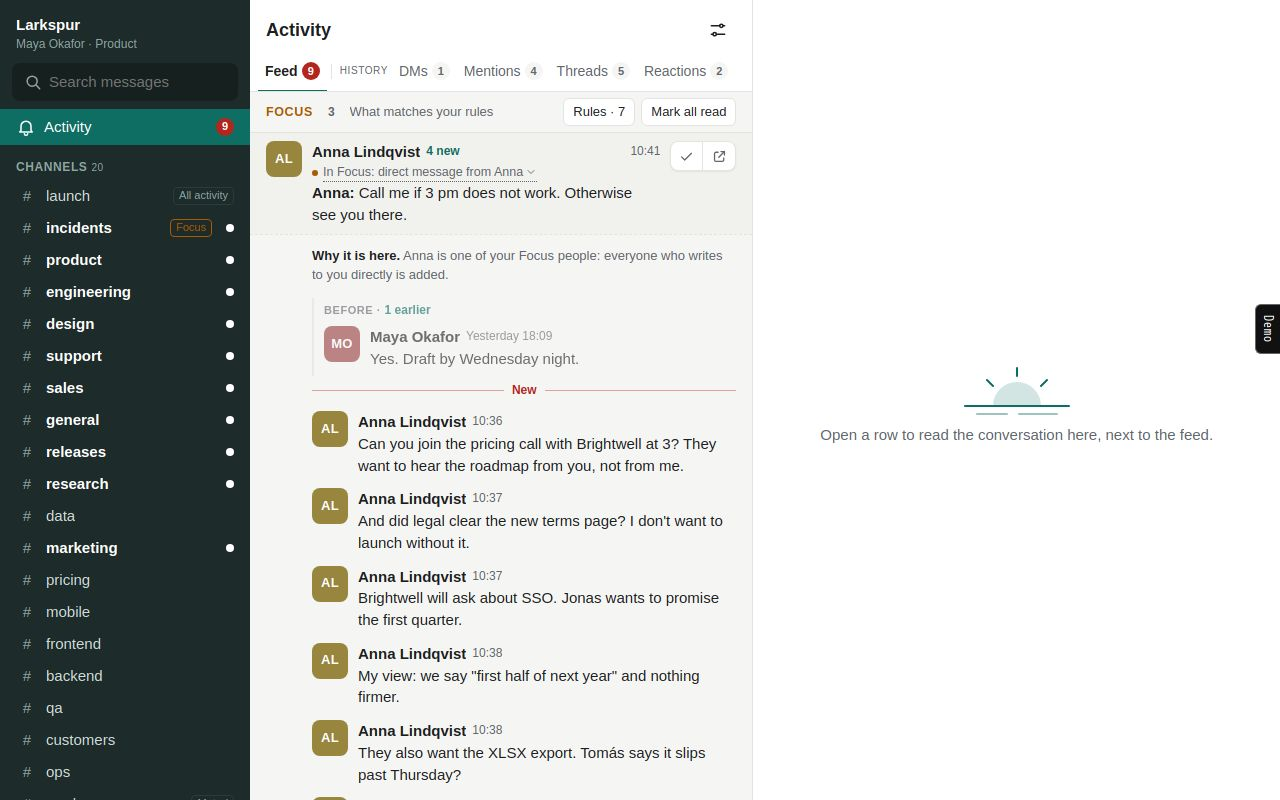
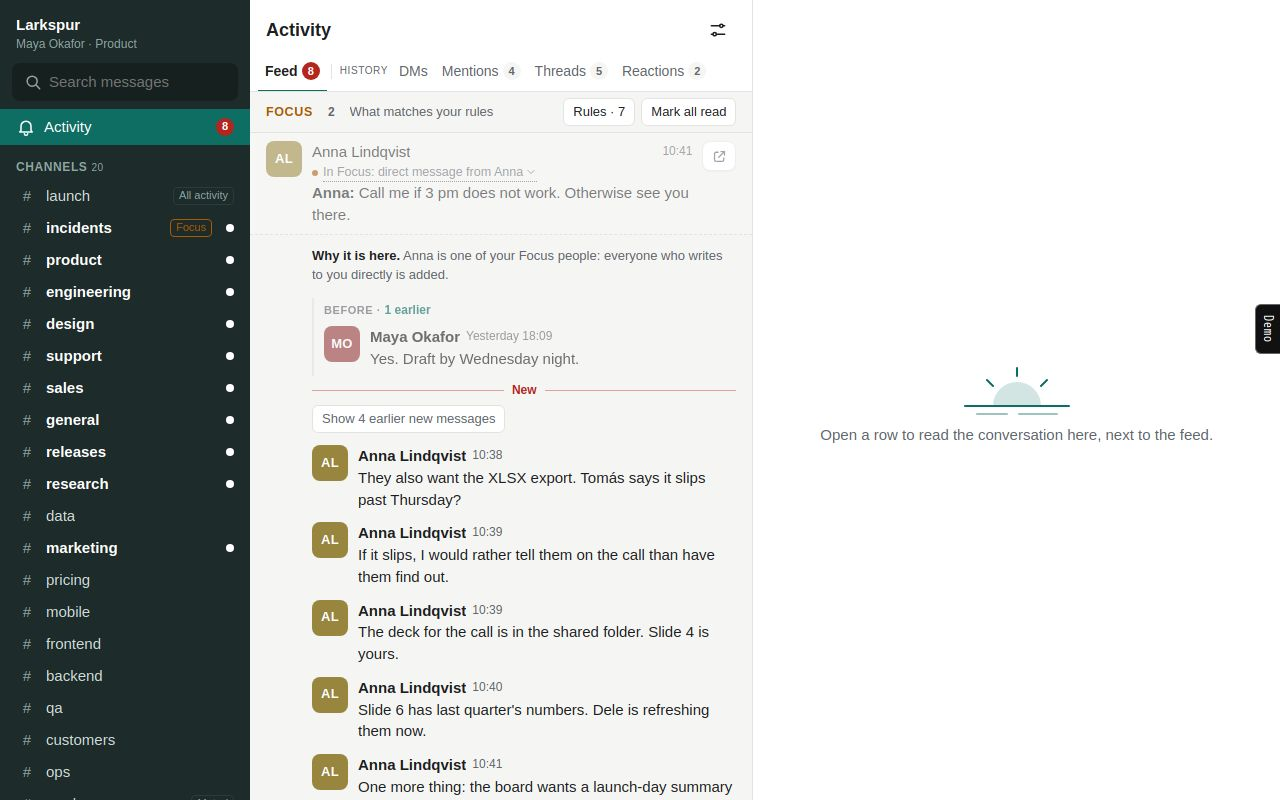
test: a long burst shows its newest messages by the reply box, earlier new ones one click above (E-002, T-025)
The first version showed the oldest six and hid the newest; the user asked why. Expanding reads the row again, as D-015 says.
Verified: run.sh passes 439 checks at 1280 and 390 px; looked at rendered on desktop.

Changed region(s): [[0.2188, 0.5, 0.5625, 1.0], [0.1875, 0.1562, 0.5312, 0.2812], [0.3438, 0.0625, 0.5625, 0.0938]]

diff --git a/experiments/E-002-look-and-feel/own.html b/experiments/E-002-look-and-feel/own.html
@@ -629,8 +629,8 @@ function whyBody(r, full) {
   const acts = e.off ? '' : e.acts.map(a => `<div class="why-act"><button class="btn sm" data-act="${a.act}" ${a.d}>${esc(a.label)}</button><small>${esc(a.note)}</small></div>`).join('');
   return `<div class="why-steps"><div><i>1</i><span><b>What it is</b>${esc(e.what)}</span></div><div><i>2</i><span><b>What put it in ${b}</b>${esc(e.by)}</span></div>${e.alt && !full ? `<div><i>3</i><span><b>Otherwise</b>${esc(e.alt)}</span></div>` : ''}</div>${path}${acts || done ? `<div class="why-acts"><b class="why-q">Not what you want in ${b}?</b>${acts}${done}</div>` : ''}`;
 }
-const CAP = 6; // a long burst opens in steps, and only what was shown counts as read
-const left = r => r.read ? 0 : r.items.length - (r.pos || 0);
+const CAP = 6; // a long burst shows its newest messages by the reply box; the earlier new ones are one click above them
+const left = r => r.read ? 0 : r.items.length;
 function ctxFor(r) { // context is what the new messages answer: the message before them in a direct conversation, or the start of the thread
   const c = conv(r.conv); if (c.kind === 'channel' || r.kind === 'rx') return '';
   const i = c.msgs.indexOf(r.items[0]), ids = [];
@@ -646,7 +646,7 @@ function rowHTML(r) {
   if (ms.every(m => m.deleted)) return `<article class="row gone b-${r.bucket}" data-row="${r.id}"><div class="row-main" style="height:${L.self || 64}px"><span class="tomb">${first(last.by)} deleted this message</span><small>${where} · it was here because ${first(last.by)} mentioned you</small></div></article>`;
   const title = r.title || (c.kind === 'dm' ? pn(c.with) : c.kind === 'channel' ? (r.chan ? '#' + c.name : pn(last.by)) : c.title);
   const sub = r.sub || (c.kind === 'dm' ? '' : c.kind === 'channel' ? (r.chan ? '' : '#' + c.name) : '#' + c.where);
-  const n = left(r), cnt = n > 1 || (n && r.pos) ? `<span class="row-count">${n} new</span>` : '';
+  const n = left(r), cnt = n > 1 ? `<span class="row-count">${n} new</span>` : '';
   const marks = (ms.some(m => m.flag) ? '<span class="tag flag">⚑</span>' : '') + (ms.some(m => m.info) ? '<span class="tag info">Info</span>' : '') + (isAgent(r.by) ? '<span class="tag ag">agent</span>' : '');
   const state = r.done ? '<span class="state">Done</span>' : r.keptNow ? '<span class="state">Kept</span>' : '';
   const badge = r.read ? '' : `<span class="row-badge">${n > 1 ? n : ''}</span>`;
@@ -655,7 +655,7 @@ function rowHTML(r) {
   if (exp) {
     const mine = r.replies.map(i => msgHTML(i, 'exp')).join('');
     const kd = r.kept && !r.done ? `<button class="btn sm pri" data-act="done" data-id="${r.id}">Done</button>` : r.done ? '' : `<button class="btn sm" data-act="keep" data-id="${r.id}">Keep</button>`;
-    x = `<div class="row-exp">${WHY === 'b' ? `<div class="why-inline">${whyBody(r)}</div>` : `<p class="why"><b>Why it is here.</b> ${esc(r.why)}</p>`}${ctxFor(r)}${ctxFor(r) ? '<div class="newline"><span>New</span></div>' : ''}${(r.read ? r.items : r.items.slice(0, r.pos)).map(i => msgHTML(i, 'exp')).join('')}${n ? `<div class="more-new"><button class="btn sm pri" data-act="more" data-id="${r.id}">Show the next ${Math.min(n, CAP)}</button><span>${n} more new. They stay unread until you have seen them.</span></div>` : ''}${mine}
+    x = `<div class="row-exp">${WHY === 'b' ? `<div class="why-inline">${whyBody(r)}</div>` : `<p class="why"><b>Why it is here.</b> ${esc(r.why)}</p>`}${ctxFor(r)}${ctxFor(r) ? '<div class="newline"><span>New</span></div>' : ''}${r.items.length > CAP && !r.all ? `<div class="more-new"><button class="btn sm" data-act="more" data-id="${r.id}">Show ${r.items.length - CAP} earlier new messages</button></div>` : ''}${(r.all ? r.items : r.items.slice(-CAP)).map(i => msgHTML(i, 'exp')).join('')}${mine}
       <div class="acts"><span class="quick">${['👍', '✅', '👀', '🎉'].map(e => `<button class="rx-btn" data-act="react" data-id="${r.id}" data-e="${e}" aria-label="React ${e}">${e}</button>`).join('')}</span>${kd}<button class="btn sm" data-act="openConv" data-c="${r.conv}" data-id="${r.id}">Open conversation</button>${dialCtl(c, r.id)}<button class="btn sm" data-act="ruleFor" data-c="${r.conv}" data-by="${r.by}">Add to Focus…</button></div>
       <form class="reply" data-form="reply" data-id="${r.id}"><input name="t" autocomplete="off" aria-label="Reply" placeholder="Reply ${c.kind === 'dm' ? 'to ' + first(c.with) : 'in ' + where}…"><button class="btn pri">Send</button></form></div>`;
   }
@@ -818,8 +818,8 @@ function below(rid) { const el = document.querySelector(`[data-row="${rid}"]`); 
 function onScreen(rid) { const el = document.querySelector(`[data-row="${rid}"]`); if (!el) return false; const b = el.getBoundingClientRect(); return b.bottom > 0 && b.top < innerHeight; }
 function measured(rid, fn, what) { const a = below(rid); fn(); render(); const b = below(rid); S.note = a === null || b === null ? what + ' The row was not on screen.' : `${what} The row below moved by ${Math.abs(b - a).toFixed(1)} px.`; render(); }
 const A = {
-  toggle(d) { const r = row(d.id); if (S.exp.has(d.id)) S.exp.delete(d.id); else { S.exp.add(d.id); if (!r.pos) r.pos = Math.min(CAP, r.items.length); if (r.pos >= r.items.length) r.read = true; } },
-  more(d) { const r = row(d.id); r.pos = Math.min(r.pos + CAP, r.items.length); if (r.pos >= r.items.length) r.read = true; },
+  toggle(d) { const r = row(d.id); if (S.exp.has(d.id)) S.exp.delete(d.id); else { S.exp.add(d.id); r.read = true; } },
+  more(d) { row(d.id).all = true; },
   openConv(d) { if (S.conv !== d.c) S.lock = Object.fromEntries(Object.entries(S.lock).filter(([k]) => !k.startsWith('conv:'))); S.conv = d.c; conv(d.c); S.menu = null; S.modal = null; S.rows.forEach(r => { if (r.conv === d.c && (!d.id || r.id === d.id || conv(d.c).kind !== 'channel')) r.read = true; }); const sr = document.getElementById('sr'); if (sr) sr.innerHTML = ''; S.q = ''; },
   closeConv() { S.conv = null; S.menu = null; },
   read(d) { row(d.id).read = true; },

diff --git a/experiments/E-002-look-and-feel/slack-like.html b/experiments/E-002-look-and-feel/slack-like.html
@@ -593,8 +593,8 @@ function whyBody(r, full) {
   const acts = e.off ? '' : e.acts.map(a => `<div class="why-act"><button class="btn sm" data-act="${a.act}" ${a.d}>${esc(a.label)}</button><small>${esc(a.note)}</small></div>`).join('');
   return `<div class="why-steps"><div><i>1</i><span><b>What it is</b>${esc(e.what)}</span></div><div><i>2</i><span><b>What put it in ${b}</b>${esc(e.by)}</span></div>${e.alt && !full ? `<div><i>3</i><span><b>Otherwise</b>${esc(e.alt)}</span></div>` : ''}</div>${path}${acts || done ? `<div class="why-acts"><b class="why-q">Not what you want in ${b}?</b>${acts}${done}</div>` : ''}`;
 }
-const CAP = 6; // a long burst opens in steps, and only what was shown counts as read
-const left = r => r.read ? 0 : r.items.length - (r.pos || 0);
+const CAP = 6; // a long burst shows its newest messages by the reply box; the earlier new ones are one click above them
+const left = r => r.read ? 0 : r.items.length;
 function ctxFor(r) { // context is what the new messages answer: the message before them in a direct conversation, or the start of the thread
   const c = conv(r.conv); if (c.kind === 'channel' || r.kind === 'rx') return '';
   const i = c.msgs.indexOf(r.items[0]), ids = [];
@@ -610,7 +610,7 @@ function rowHTML(r) {
   if (ms.every(m => m.deleted)) return `<article class="row gone b-${r.bucket}" data-row="${r.id}"><div class="row-main" style="height:${L.self || 64}px"><span class="tomb">${first(last.by)} deleted this message</span><small>${where} · it was here because ${first(last.by)} mentioned you</small></div></article>`;
   const title = r.title || (c.kind === 'dm' ? pn(c.with) : c.kind === 'channel' ? (r.chan ? '#' + c.name : pn(last.by)) : c.title);
   const sub = r.sub || (c.kind === 'dm' ? '' : c.kind === 'channel' ? (r.chan ? '' : '#' + c.name) : '#' + c.where);
-  const n = left(r), cnt = n > 1 || (n && r.pos) ? `<span class="row-count">${n} new</span>` : '';
+  const n = left(r), cnt = n > 1 ? `<span class="row-count">${n} new</span>` : '';
   const marks = (ms.some(m => m.flag) ? '<span class="tag flag">⚑</span>' : '') + (ms.some(m => m.info) ? '<span class="tag info">Info</span>' : '') + (isAgent(r.by) ? '<span class="tag ag">agent</span>' : '');
   const state = r.done ? '<span class="state">Done</span>' : r.keptNow ? '<span class="state">Kept</span>' : '';
   const badge = r.read ? '' : `<span class="row-badge">${n > 1 ? n : ''}</span>`;
@@ -619,7 +619,7 @@ function rowHTML(r) {
   if (exp) {
     const mine = r.replies.map(i => msgHTML(i, 'exp')).join('');
     const kd = r.kept && !r.done ? `<button class="btn sm pri" data-act="done" data-id="${r.id}">Done</button>` : r.done ? '' : `<button class="btn sm" data-act="keep" data-id="${r.id}">Keep</button>`;
-    x = `<div class="row-exp">${WHY === 'b' ? `<div class="why-inline">${whyBody(r)}</div>` : `<p class="why"><b>Why it is here.</b> ${esc(r.why)}</p>`}${ctxFor(r)}${ctxFor(r) ? '<div class="newline"><span>New</span></div>' : ''}${(r.read ? r.items : r.items.slice(0, r.pos)).map(i => msgHTML(i, 'exp')).join('')}${n ? `<div class="more-new"><button class="btn sm pri" data-act="more" data-id="${r.id}">Show the next ${Math.min(n, CAP)}</button><span>${n} more new. They stay unread until you have seen them.</span></div>` : ''}${mine}
+    x = `<div class="row-exp">${WHY === 'b' ? `<div class="why-inline">${whyBody(r)}</div>` : `<p class="why"><b>Why it is here.</b> ${esc(r.why)}</p>`}${ctxFor(r)}${ctxFor(r) ? '<div class="newline"><span>New</span></div>' : ''}${r.items.length > CAP && !r.all ? `<div class="more-new"><button class="btn sm" data-act="more" data-id="${r.id}">Show ${r.items.length - CAP} earlier new messages</button></div>` : ''}${(r.all ? r.items : r.items.slice(-CAP)).map(i => msgHTML(i, 'exp')).join('')}${mine}
       <div class="acts"><span class="quick">${['👍', '✅', '👀', '🎉'].map(e => `<button class="rx-btn" data-act="react" data-id="${r.id}" data-e="${e}" aria-label="React ${e}">${e}</button>`).join('')}</span>${kd}<button class="btn sm" data-act="openConv" data-c="${r.conv}" data-id="${r.id}">Open conversation</button>${dialCtl(c, r.id)}<button class="btn sm" data-act="ruleFor" data-c="${r.conv}" data-by="${r.by}">Add to Focus…</button></div>
       <form class="reply" data-form="reply" data-id="${r.id}"><input name="t" autocomplete="off" aria-label="Reply" placeholder="Reply ${c.kind === 'dm' ? 'to ' + first(c.with) : 'in ' + where}…"><button class="btn pri">Send</button></form></div>`;
   }
@@ -782,8 +782,8 @@ function below(rid) { const el = document.querySelector(`[data-row="${rid}"]`); 
 function onScreen(rid) { const el = document.querySelector(`[data-row="${rid}"]`); if (!el) return false; const b = el.getBoundingClientRect(); return b.bottom > 0 && b.top < innerHeight; }
 function measured(rid, fn, what) { const a = below(rid); fn(); render(); const b = below(rid); S.note = a === null || b === null ? what + ' The row was not on screen.' : `${what} The row below moved by ${Math.abs(b - a).toFixed(1)} px.`; render(); }
 const A = {
-  toggle(d) { const r = row(d.id); if (S.exp.has(d.id)) S.exp.delete(d.id); else { S.exp.add(d.id); if (!r.pos) r.pos = Math.min(CAP, r.items.length); if (r.pos >= r.items.length) r.read = true; } },
-  more(d) { const r = row(d.id); r.pos = Math.min(r.pos + CAP, r.items.length); if (r.pos >= r.items.length) r.read = true; },
+  toggle(d) { const r = row(d.id); if (S.exp.has(d.id)) S.exp.delete(d.id); else { S.exp.add(d.id); r.read = true; } },
+  more(d) { row(d.id).all = true; },
   openConv(d) { if (S.conv !== d.c) S.lock = Object.fromEntries(Object.entries(S.lock).filter(([k]) => !k.startsWith('conv:'))); S.conv = d.c; conv(d.c); S.menu = null; S.modal = null; S.rows.forEach(r => { if (r.conv === d.c && (!d.id || r.id === d.id || conv(d.c).kind !== 'channel')) r.read = true; }); const sr = document.getElementById('sr'); if (sr) sr.innerHTML = ''; S.q = ''; },
   closeConv() { S.conv = null; S.menu = null; },
   read(d) { row(d.id).read = true; },

diff --git a/experiments/E-002-look-and-feel/src/core.js b/experiments/E-002-look-and-feel/src/core.js
@@ -261,8 +261,8 @@ function whyBody(r, full) {
   const acts = e.off ? '' : e.acts.map(a => `<div class="why-act"><button class="btn sm" data-act="${a.act}" ${a.d}>${esc(a.label)}</button><small>${esc(a.note)}</small></div>`).join('');
   return `<div class="why-steps"><div><i>1</i><span><b>What it is</b>${esc(e.what)}</span></div><div><i>2</i><span><b>What put it in ${b}</b>${esc(e.by)}</span></div>${e.alt && !full ? `<div><i>3</i><span><b>Otherwise</b>${esc(e.alt)}</span></div>` : ''}</div>${path}${acts || done ? `<div class="why-acts"><b class="why-q">Not what you want in ${b}?</b>${acts}${done}</div>` : ''}`;
 }
-const CAP = 6; // a long burst opens in steps, and only what was shown counts as read
-const left = r => r.read ? 0 : r.items.length - (r.pos || 0);
+const CAP = 6; // a long burst shows its newest messages by the reply box; the earlier new ones are one click above them
+const left = r => r.read ? 0 : r.items.length;
 function ctxFor(r) { // context is what the new messages answer: the message before them in a direct conversation, or the start of the thread
   const c = conv(r.conv); if (c.kind === 'channel' || r.kind === 'rx') return '';
   const i = c.msgs.indexOf(r.items[0]), ids = [];
@@ -278,7 +278,7 @@ function rowHTML(r) {
   if (ms.every(m => m.deleted)) return `<article class="row gone b-${r.bucket}" data-row="${r.id}"><div class="row-main" style="height:${L.self || 64}px"><span class="tomb">${first(last.by)} deleted this message</span><small>${where} · it was here because ${first(last.by)} mentioned you</small></div></article>`;
   const title = r.title || (c.kind === 'dm' ? pn(c.with) : c.kind === 'channel' ? (r.chan ? '#' + c.name : pn(last.by)) : c.title);
   const sub = r.sub || (c.kind === 'dm' ? '' : c.kind === 'channel' ? (r.chan ? '' : '#' + c.name) : '#' + c.where);
-  const n = left(r), cnt = n > 1 || (n && r.pos) ? `<span class="row-count">${n} new</span>` : '';
+  const n = left(r), cnt = n > 1 ? `<span class="row-count">${n} new</span>` : '';
   const marks = (ms.some(m => m.flag) ? '<span class="tag flag">⚑</span>' : '') + (ms.some(m => m.info) ? '<span class="tag info">Info</span>' : '') + (isAgent(r.by) ? '<span class="tag ag">agent</span>' : '');
   const state = r.done ? '<span class="state">Done</span>' : r.keptNow ? '<span class="state">Kept</span>' : '';
   const badge = r.read ? '' : `<span class="row-badge">${n > 1 ? n : ''}</span>`;
@@ -287,7 +287,7 @@ function rowHTML(r) {
   if (exp) {
     const mine = r.replies.map(i => msgHTML(i, 'exp')).join('');
     const kd = r.kept && !r.done ? `<button class="btn sm pri" data-act="done" data-id="${r.id}">Done</button>` : r.done ? '' : `<button class="btn sm" data-act="keep" data-id="${r.id}">Keep</button>`;
-    x = `<div class="row-exp">${WHY === 'b' ? `<div class="why-inline">${whyBody(r)}</div>` : `<p class="why"><b>Why it is here.</b> ${esc(r.why)}</p>`}${ctxFor(r)}${ctxFor(r) ? '<div class="newline"><span>New</span></div>' : ''}${(r.read ? r.items : r.items.slice(0, r.pos)).map(i => msgHTML(i, 'exp')).join('')}${n ? `<div class="more-new"><button class="btn sm pri" data-act="more" data-id="${r.id}">Show the next ${Math.min(n, CAP)}</button><span>${n} more new. They stay unread until you have seen them.</span></div>` : ''}${mine}
+    x = `<div class="row-exp">${WHY === 'b' ? `<div class="why-inline">${whyBody(r)}</div>` : `<p class="why"><b>Why it is here.</b> ${esc(r.why)}</p>`}${ctxFor(r)}${ctxFor(r) ? '<div class="newline"><span>New</span></div>' : ''}${r.items.length > CAP && !r.all ? `<div class="more-new"><button class="btn sm" data-act="more" data-id="${r.id}">Show ${r.items.length - CAP} earlier new messages</button></div>` : ''}${(r.all ? r.items : r.items.slice(-CAP)).map(i => msgHTML(i, 'exp')).join('')}${mine}
       <div class="acts"><span class="quick">${['👍', '✅', '👀', '🎉'].map(e => `<button class="rx-btn" data-act="react" data-id="${r.id}" data-e="${e}" aria-label="React ${e}">${e}</button>`).join('')}</span>${kd}<button class="btn sm" data-act="openConv" data-c="${r.conv}" data-id="${r.id}">Open conversation</button>${dialCtl(c, r.id)}<button class="btn sm" data-act="ruleFor" data-c="${r.conv}" data-by="${r.by}">Add to Focus…</button></div>
       <form class="reply" data-form="reply" data-id="${r.id}"><input name="t" autocomplete="off" aria-label="Reply" placeholder="Reply ${c.kind === 'dm' ? 'to ' + first(c.with) : 'in ' + where}…"><button class="btn pri">Send</button></form></div>`;
   }
@@ -450,8 +450,8 @@ function below(rid) { const el = document.querySelector(`[data-row="${rid}"]`); 
 function onScreen(rid) { const el = document.querySelector(`[data-row="${rid}"]`); if (!el) return false; const b = el.getBoundingClientRect(); return b.bottom > 0 && b.top < innerHeight; }
 function measured(rid, fn, what) { const a = below(rid); fn(); render(); const b = below(rid); S.note = a === null || b === null ? what + ' The row was not on screen.' : `${what} The row below moved by ${Math.abs(b - a).toFixed(1)} px.`; render(); }
 const A = {
-  toggle(d) { const r = row(d.id); if (S.exp.has(d.id)) S.exp.delete(d.id); else { S.exp.add(d.id); if (!r.pos) r.pos = Math.min(CAP, r.items.length); if (r.pos >= r.items.length) r.read = true; } },
-  more(d) { const r = row(d.id); r.pos = Math.min(r.pos + CAP, r.items.length); if (r.pos >= r.items.length) r.read = true; },
+  toggle(d) { const r = row(d.id); if (S.exp.has(d.id)) S.exp.delete(d.id); else { S.exp.add(d.id); r.read = true; } },
+  more(d) { row(d.id).all = true; },
   openConv(d) { if (S.conv !== d.c) S.lock = Object.fromEntries(Object.entries(S.lock).filter(([k]) => !k.startsWith('conv:'))); S.conv = d.c; conv(d.c); S.menu = null; S.modal = null; S.rows.forEach(r => { if (r.conv === d.c && (!d.id || r.id === d.id || conv(d.c).kind !== 'channel')) r.read = true; }); const sr = document.getElementById('sr'); if (sr) sr.innerHTML = ''; S.q = ''; },
   closeConv() { S.conv = null; S.menu = null; },
   read(d) { row(d.id).read = true; },

diff --git a/experiments/E-002-look-and-feel/telegram-like.html b/experiments/E-002-look-and-feel/telegram-like.html
@@ -615,8 +615,8 @@ function whyBody(r, full) {
   const acts = e.off ? '' : e.acts.map(a => `<div class="why-act"><button class="btn sm" data-act="${a.act}" ${a.d}>${esc(a.label)}</button><small>${esc(a.note)}</small></div>`).join('');
   return `<div class="why-steps"><div><i>1</i><span><b>What it is</b>${esc(e.what)}</span></div><div><i>2</i><span><b>What put it in ${b}</b>${esc(e.by)}</span></div>${e.alt && !full ? `<div><i>3</i><span><b>Otherwise</b>${esc(e.alt)}</span></div>` : ''}</div>${path}${acts || done ? `<div class="why-acts"><b class="why-q">Not what you want in ${b}?</b>${acts}${done}</div>` : ''}`;
 }
-const CAP = 6; // a long burst opens in steps, and only what was shown counts as read
-const left = r => r.read ? 0 : r.items.length - (r.pos || 0);
+const CAP = 6; // a long burst shows its newest messages by the reply box; the earlier new ones are one click above them
+const left = r => r.read ? 0 : r.items.length;
 function ctxFor(r) { // context is what the new messages answer: the message before them in a direct conversation, or the start of the thread
   const c = conv(r.conv); if (c.kind === 'channel' || r.kind === 'rx') return '';
   const i = c.msgs.indexOf(r.items[0]), ids = [];
@@ -632,7 +632,7 @@ function rowHTML(r) {
   if (ms.every(m => m.deleted)) return `<article class="row gone b-${r.bucket}" data-row="${r.id}"><div class="row-main" style="height:${L.self || 64}px"><span class="tomb">${first(last.by)} deleted this message</span><small>${where} · it was here because ${first(last.by)} mentioned you</small></div></article>`;
   const title = r.title || (c.kind === 'dm' ? pn(c.with) : c.kind === 'channel' ? (r.chan ? '#' + c.name : pn(last.by)) : c.title);
   const sub = r.sub || (c.kind === 'dm' ? '' : c.kind === 'channel' ? (r.chan ? '' : '#' + c.name) : '#' + c.where);
-  const n = left(r), cnt = n > 1 || (n && r.pos) ? `<span class="row-count">${n} new</span>` : '';
+  const n = left(r), cnt = n > 1 ? `<span class="row-count">${n} new</span>` : '';
   const marks = (ms.some(m => m.flag) ? '<span class="tag flag">⚑</span>' : '') + (ms.some(m => m.info) ? '<span class="tag info">Info</span>' : '') + (isAgent(r.by) ? '<span class="tag ag">agent</span>' : '');
   const state = r.done ? '<span class="state">Done</span>' : r.keptNow ? '<span class="state">Kept</span>' : '';
   const badge = r.read ? '' : `<span class="row-badge">${n > 1 ? n : ''}</span>`;
@@ -641,7 +641,7 @@ function rowHTML(r) {
   if (exp) {
     const mine = r.replies.map(i => msgHTML(i, 'exp')).join('');
     const kd = r.kept && !r.done ? `<button class="btn sm pri" data-act="done" data-id="${r.id}">Done</button>` : r.done ? '' : `<button class="btn sm" data-act="keep" data-id="${r.id}">Keep</button>`;
-    x = `<div class="row-exp">${WHY === 'b' ? `<div class="why-inline">${whyBody(r)}</div>` : `<p class="why"><b>Why it is here.</b> ${esc(r.why)}</p>`}${ctxFor(r)}${ctxFor(r) ? '<div class="newline"><span>New</span></div>' : ''}${(r.read ? r.items : r.items.slice(0, r.pos)).map(i => msgHTML(i, 'exp')).join('')}${n ? `<div class="more-new"><button class="btn sm pri" data-act="more" data-id="${r.id}">Show the next ${Math.min(n, CAP)}</button><span>${n} more new. They stay unread until you have seen them.</span></div>` : ''}${mine}
+    x = `<div class="row-exp">${WHY === 'b' ? `<div class="why-inline">${whyBody(r)}</div>` : `<p class="why"><b>Why it is here.</b> ${esc(r.why)}</p>`}${ctxFor(r)}${ctxFor(r) ? '<div class="newline"><span>New</span></div>' : ''}${r.items.length > CAP && !r.all ? `<div class="more-new"><button class="btn sm" data-act="more" data-id="${r.id}">Show ${r.items.length - CAP} earlier new messages</button></div>` : ''}${(r.all ? r.items : r.items.slice(-CAP)).map(i => msgHTML(i, 'exp')).join('')}${mine}
       <div class="acts"><span class="quick">${['👍', '✅', '👀', '🎉'].map(e => `<button class="rx-btn" data-act="react" data-id="${r.id}" data-e="${e}" aria-label="React ${e}">${e}</button>`).join('')}</span>${kd}<button class="btn sm" data-act="openConv" data-c="${r.conv}" data-id="${r.id}">Open conversation</button>${dialCtl(c, r.id)}<button class="btn sm" data-act="ruleFor" data-c="${r.conv}" data-by="${r.by}">Add to Focus…</button></div>
       <form class="reply" data-form="reply" data-id="${r.id}"><input name="t" autocomplete="off" aria-label="Reply" placeholder="Reply ${c.kind === 'dm' ? 'to ' + first(c.with) : 'in ' + where}…"><button class="btn pri">Send</button></form></div>`;
   }
@@ -804,8 +804,8 @@ function below(rid) { const el = document.querySelector(`[data-row="${rid}"]`); 
 function onScreen(rid) { const el = document.querySelector(`[data-row="${rid}"]`); if (!el) return false; const b = el.getBoundingClientRect(); return b.bottom > 0 && b.top < innerHeight; }
 function measured(rid, fn, what) { const a = below(rid); fn(); render(); const b = below(rid); S.note = a === null || b === null ? what + ' The row was not on screen.' : `${what} The row below moved by ${Math.abs(b - a).toFixed(1)} px.`; render(); }
 const A = {
-  toggle(d) { const r = row(d.id); if (S.exp.has(d.id)) S.exp.delete(d.id); else { S.exp.add(d.id); if (!r.pos) r.pos = Math.min(CAP, r.items.length); if (r.pos >= r.items.length) r.read = true; } },
-  more(d) { const r = row(d.id); r.pos = Math.min(r.pos + CAP, r.items.length); if (r.pos >= r.items.length) r.read = true; },
+  toggle(d) { const r = row(d.id); if (S.exp.has(d.id)) S.exp.delete(d.id); else { S.exp.add(d.id); r.read = true; } },
+  more(d) { row(d.id).all = true; },
   openConv(d) { if (S.conv !== d.c) S.lock = Object.fromEntries(Object.entries(S.lock).filter(([k]) => !k.startsWith('conv:'))); S.conv = d.c; conv(d.c); S.menu = null; S.modal = null; S.rows.forEach(r => { if (r.conv === d.c && (!d.id || r.id === d.id || conv(d.c).kind !== 'channel')) r.read = true; }); const sr = document.getElementById('sr'); if (sr) sr.innerHTML = ''; S.q = ''; },
   closeConv() { S.conv = null; S.menu = null; },
   read(d) { row(d.id).read = true; },

diff --git a/experiments/E-002-look-and-feel/check.py b/experiments/E-002-look-and-feel/check.py
@@ -275,7 +275,7 @@ def why_and_people(browser, slug, size, vp, scale):
     ctx.close()
 
 def bursts(browser, slug, size, vp, scale):
-    """Ten messages from one person: one row, read in steps, with context, and one click to the conversation (proposal, 2026-11-22)."""
+    """Ten messages from one person: one row, newest by the reply box, with context, and one click to the conversation (proposal, 2026-11-22)."""
     ctx = browser.new_context(viewport=vp, device_scale_factor=scale, has_touch=size == "phone")
     pg = ctx.new_page(); pg.goto(f"file://{here.resolve()}/{slug}.html")
     def ok(name, cond, detail=""):
@@ -284,11 +284,11 @@ def bursts(browser, slug, size, vp, scale):
     row = pg.locator('article[data-row="r-anna"]')
     ok("ten messages are one row that says so", pg.locator('article[data-row="r-anna"]').count() == 1 and ("10 new" in row.inner_text() or row.locator(".row-badge").inner_text() == "10"), row.inner_text()[:60])
     row.locator(".row-main").click(position={"x": 24, "y": 24})
-    ok("expanding shows the first six new messages after the one before them", row.locator(".row-exp > .msg").count() == 6 and row.locator(".ctx .msg").count() == 1 and "Draft by Wednesday night" in row.locator(".ctx").inner_text())
-    ok("the four not yet shown stay unread", "unread" in row.get_attribute("class").split() and "4 more new" in row.locator(".more-new").inner_text())
+    ok("expanding shows the six newest messages, after the one before the burst", row.locator(".row-exp > .msg").count() == 6 and "Call me if 3 pm" in row.locator(".row-exp > .msg").last.inner_text() and row.locator(".ctx .msg").count() == 1 and "Draft by Wednesday night" in row.locator(".ctx").inner_text())
+    ok("the four earlier new ones are one click above, and the row is read", "Show 4 earlier new messages" in row.locator(".more-new").inner_text() and "read" in row.get_attribute("class").split())
     pg.screenshot(path=str(shots / f"{slug}-{size}-18-ten-messages.jpg"), type="jpeg", quality=80)
     row.locator('[data-act="more"]').click()
-    ok("showing the rest reads the row", row.locator(".row-exp > .msg").count() == 10 and "read" in row.get_attribute("class").split())
+    ok("showing the earlier ones gives all ten in order", row.locator(".row-exp > .msg").count() == 10 and "pricing call" in row.locator(".row-exp > .msg").first.inner_text())
     if slug == "telegram-like": pg.locator('[data-act="btab"][data-b="needs"]').click()
     t = pg.locator('article[data-row="r-check"]')
     t.locator(".row-main").click(position={"x": 24, "y": 24})

diff --git a/tasks/board.md b/tasks/board.md
@@ -10,7 +10,7 @@ _Nothing in progress._
 
 ## Waiting on user
 
-- **T-025** `decide` Many messages in one row, context, and going straight to the conversation. Proposal shown in `experiments/E-002-look-and-feel/slack-like.html` (Anna's row has ten new messages): the row shows the latest message and the count; expanding shows the message before the new ones (or the start of the thread), then the new ones six at a time, and only what was shown counts as read; an arrow on every row opens the conversation at the first new message in one click. Needs the user's yes or changes; then it is recorded as an addition to D-003 and D-015
+- **T-025** `decide` Many messages in one row, context, and going straight to the conversation. Proposal shown in `experiments/E-002-look-and-feel/slack-like.html` (Anna's row has ten new messages): the row shows the latest message and the count; expanding shows the message before the new ones (or the start of the thread), then the six newest new messages next to the reply box, with the earlier new ones one click above them; expanding reads the row, as D-015 says (changed after the user asked why the newest were hidden); an arrow on every row opens the conversation at the first new message in one click. Needs the user's yes or changes; then it is recorded as an addition to D-003 and D-015
 - **T-022** `decide` The architecture proposal is ready for review: `docs/visuals/T-022-architecture-proposal.html` (system map, six technical decisions with options, payloads and failure tests) and `docs/visuals/T-022-walkthroughs.html` (seven walk-throughs). D-005 to D-008 are proposed; D-017 and D-018 are registered. First question to the user: the shape (D-005). Then D-017, D-018, D-006, D-007, D-008, one at a time. Detail: `tasks/T-022-architecture-draft.md`
 - **T-021** `decide` Nine small behaviours the E-001 model still chooses on its own (list in `experiments/E-001-feed-rules-model/README.md`, "Still open after this run"). None blocks the look-and-feel work. The notification default was confirmed by the user at about 29 a day
 

diff --git a/experiments/E-002-look-and-feel/README.md b/experiments/E-002-look-and-feel/README.md
@@ -89,7 +89,7 @@ Three variants live in the Slack-like page behind the address ending `#why=a`, `
 
 ### After the review
 
-The pages now also show what the user decided next: variant (a) as the default (D-020), Focus people for direct messages (D-021), no notification bell, with the notification list reached from the Demo controls as a stand-in for the separate app (D-022), a mark-read button on rows (D-015), and Activity first on a phone (D-019). `check.py` covers these. A further proposal is shown and checked but not yet accepted (T-025): context above the new messages in an expanded row, a long burst read six at a time, and an arrow that opens the conversation at the first new message. 439 checks in all.
+The pages now also show what the user decided next: variant (a) as the default (D-020), Focus people for direct messages (D-021), no notification bell, with the notification list reached from the Demo controls as a stand-in for the separate app (D-022), a mark-read button on rows (D-015), and Activity first on a phone (D-019). `check.py` covers these. A further proposal is shown and checked but not yet accepted (T-025): context above the new messages in an expanded row, a long burst showing its six newest messages with the earlier new ones one click above, and an arrow that opens the conversation at the first new message. 439 checks in all.
 
 ### What this does not show
 
